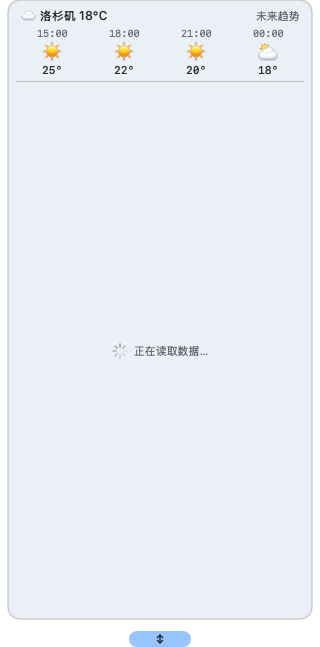
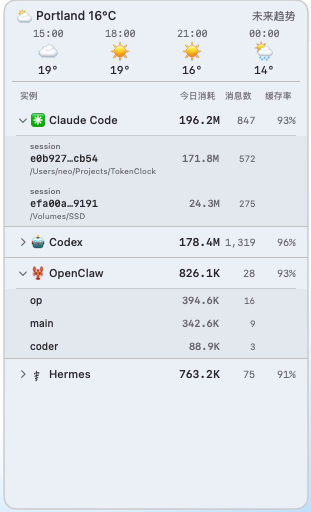
docs(readme): EN hero shot + use provided EN/ZH dropdown screenshots
英文版：新截 glass 主题英文表盘主图 hero_en.png，README.en.md 改用。
详情面板：改用用户提供的中/英文截图，替换之前处于 loading 状态的版本（dropdown_en.png / dropdown_zh.png）。
中文版主图 hero.png 暂未更新（待后续切中文截取）。

diff --git a/README.en.md b/README.en.md
@@ -18,7 +18,7 @@
 
 <div align="center">
 
-![TokenClock — floating Liquid Glass desktop clock](docs/screenshots/hero.png)
+![TokenClock — floating Liquid Glass desktop clock](docs/screenshots/hero_en.png)
 
 </div>
 
@@ -65,7 +65,7 @@ It's built with the macOS 26 **Liquid Glass** material for a crystal clock disc,
     <td width="50%" align="center"><b>Expanded detail panel</b><br>usage broken down by tool → session / agent</td>
   </tr>
   <tr>
-    <td width="50%" align="center"><img src="docs/screenshots/hero.png" alt="hero"></td>
+    <td width="50%" align="center"><img src="docs/screenshots/hero_en.png" alt="hero"></td>
     <td width="50%" align="center"><img src="docs/screenshots/dropdown_en.png" alt="dropdown"></td>
   </tr>
   <tr>
